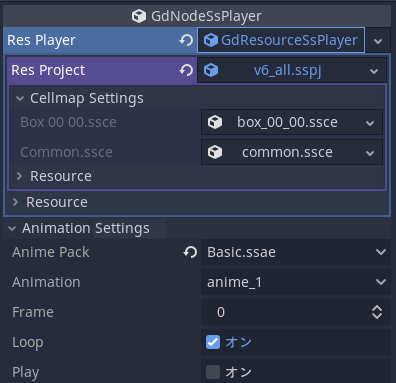
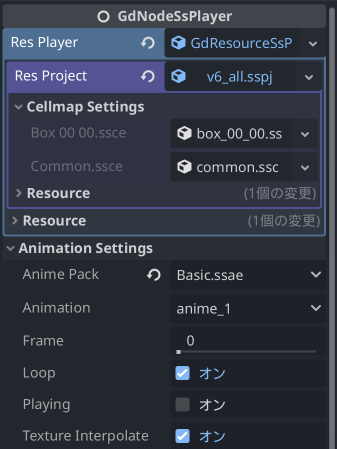
Added the info about Texture Interpolate property.

diff --git a/README.md b/README.md
@@ -191,8 +191,20 @@ GdNodeSsPlayer               - SsPlayer を扱うノード
     ├── Animation            - アニメーション
     ├── Frame                - 現在のフレーム
     ├── Loop                 - ループ再生フラグ
-    └── Play                 - 再生フラグ
+    ├── Playing              - 再生フラグ
+    └── Texture Interpolate  - テクスチャ補間フラグ
 ```
+
+### テクスチャ補間フラグについて
+
+SSPlayer for Godot の実装(v1.2.0時点)では、一度アニメーションをテクスチャにレンダリングした後、Godot のレンダラーによってスクリーンバッファに描画されます。  
+このテクスチャにレンダリングする際にバイリニア補間をかける場合はフラグをオンに設定します。  
+この状態では回転して斜めになったパーツのエッジにアンチエイリアスがかかりますが、この動作が好ましくない場合はオフにしてください。  
+このフラグをオフに設定し、CanvasItem の Texture の FilterMode も Nearest にしておくとスクリーンバッファに描画する際にも補間がかからずピクセルのエッジが明確になります。  
+例えばピクセルアート系のゲームで利用する場合は、この設定を試してみて下さい。  
+
+#### レンダリングするテクスチャのサイズ
+レンダリングするテクスチャのサイズはSpriteStudio上でアニメーションに設定した「基準枠」のサイズが採用されます。(v1.2.0時点)
 
 ## クラス
 
